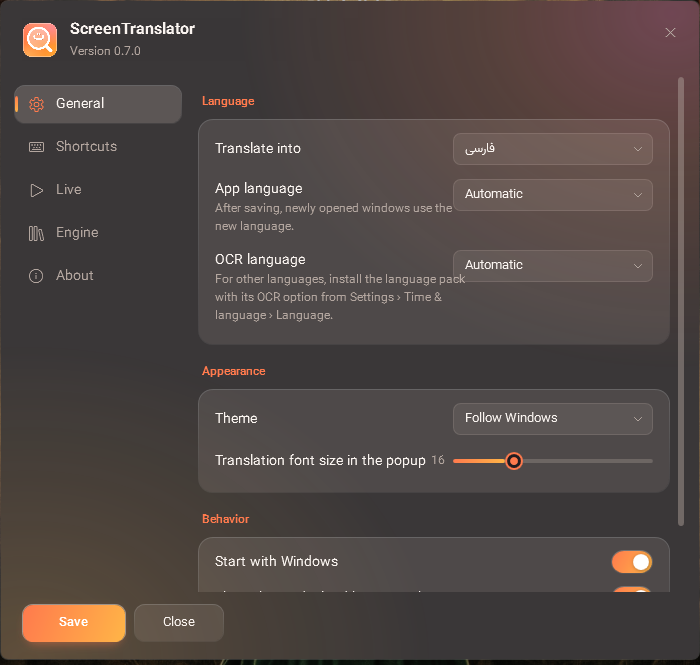
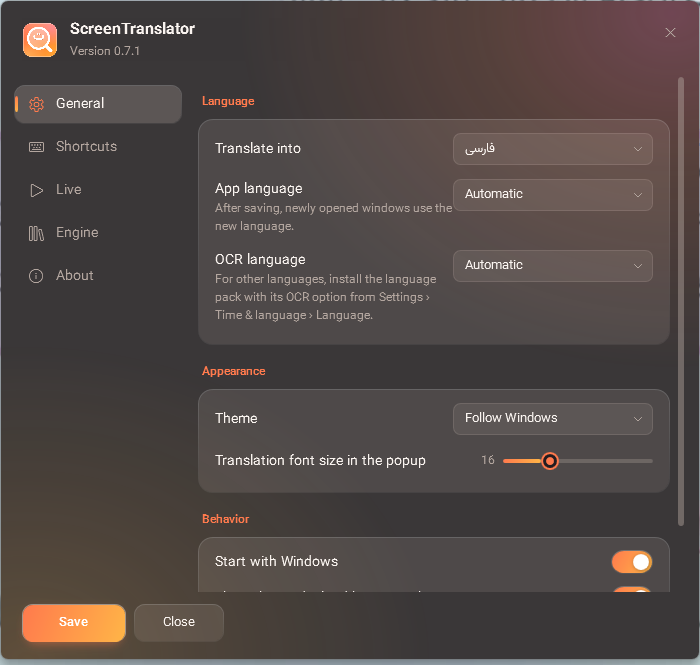
Settings: stop long labels from running under the controls next to them
In English the hints are longer than their Persian counterparts and each row
is a single-cell grid, so 'Lower = faster reaction…', the OCR and app-language
hints and the two shortcut hints slid under the slider, combo box and hotkey
box on their right. They wrap inside a fixed width now, and the sliders have a
width of their own instead of taking whatever is left.

The text boxes clipped their own text: a fixed height of 34 with 6px of
vertical padding left 20px for a line that needs about 24, so the Base URL and
model fields were cut through the middle in both languages. They grow from a
minimum height now.

--demo-settings takes 'openai' to open the OpenAI panel, which is what made
the clipping visible.

diff --git a/src/ScreenTranslator/UI/SettingsWindow.xaml b/src/ScreenTranslator/UI/SettingsWindow.xaml
@@ -83,7 +83,7 @@
                                         <Grid Style="{StaticResource Row}">
                                             <StackPanel>
                                                 <TextBlock Style="{StaticResource Label}" Text="{ui:L settings.uilang}" />
-                                                <TextBlock Style="{StaticResource MutedLabel}" TextWrapping="Wrap" MaxWidth="260" HorizontalAlignment="Left"
+                                                <TextBlock Style="{StaticResource MutedLabel}" TextWrapping="Wrap" MaxWidth="240" HorizontalAlignment="Left"
                                                            Text="{ui:L settings.uilang.hint}" />
                                             </StackPanel>
                                             <ComboBox x:Name="UiLangCombo" Width="200" HorizontalAlignment="Right" VerticalAlignment="Top">
@@ -95,7 +95,7 @@
                                         <Grid Style="{StaticResource Row}">
                                             <StackPanel>
                                                 <TextBlock Style="{StaticResource Label}" Text="{ui:L settings.ocr}" />
-                                                <TextBlock Style="{StaticResource MutedLabel}" TextWrapping="Wrap" MaxWidth="260" HorizontalAlignment="Left"
+                                                <TextBlock Style="{StaticResource MutedLabel}" TextWrapping="Wrap" MaxWidth="240" HorizontalAlignment="Left"
                                                            Text="{ui:L settings.ocr.hint}" />
                                             </StackPanel>
                                             <ComboBox x:Name="OcrCombo" Width="200" HorizontalAlignment="Right" VerticalAlignment="Top" />
@@ -118,7 +118,7 @@
                                             <TextBlock Style="{StaticResource Label}" Text="{ui:L settings.popupfont}" />
                                             <StackPanel Orientation="Horizontal" HorizontalAlignment="Right">
                                                 <TextBlock x:Name="PopupFontValue" Style="{StaticResource MutedLabel}" Width="30" TextAlignment="Center" />
-                                                <Slider x:Name="PopupFontSlider" Minimum="12" Maximum="26" TickFrequency="1" ValueChanged="OnSliderChanged" />
+                                                <Slider x:Name="PopupFontSlider" Width="150" Minimum="12" Maximum="26" TickFrequency="1" ValueChanged="OnSliderChanged" />
                                             </StackPanel>
                                         </Grid>
                                     </StackPanel>
@@ -160,14 +160,14 @@
                                         <Grid Style="{StaticResource Row}">
                                             <StackPanel>
                                                 <TextBlock Style="{StaticResource Label}" Text="{ui:L settings.hk.word}" />
-                                                <TextBlock Style="{StaticResource MutedLabel}" Text="{ui:L settings.hk.word.hint}" />
+                                                <TextBlock Style="{StaticResource MutedLabel}" Text="{ui:L settings.hk.word.hint}" TextWrapping="Wrap" MaxWidth="250" HorizontalAlignment="Left" />
                                             </StackPanel>
                                             <ui:HotkeyBox x:Name="HkWord" HorizontalAlignment="Right" VerticalAlignment="Top" />
                                         </Grid>
                                         <Grid Style="{StaticResource Row}">
                                             <StackPanel>
                                                 <TextBlock Style="{StaticResource Label}" Text="{ui:L settings.hk.copy}" />
-                                                <TextBlock Style="{StaticResource MutedLabel}" Text="{ui:L settings.hk.copy.hint}" />
+                                                <TextBlock Style="{StaticResource MutedLabel}" Text="{ui:L settings.hk.copy.hint}" TextWrapping="Wrap" MaxWidth="250" HorizontalAlignment="Left" />
                                             </StackPanel>
                                             <ui:HotkeyBox x:Name="HkCopy" HorizontalAlignment="Right" VerticalAlignment="Top" />
                                         </Grid>
@@ -209,25 +209,25 @@
                                         <Grid Style="{StaticResource Row}">
                                             <StackPanel>
                                                 <TextBlock Style="{StaticResource Label}" Text="{ui:L settings.live.interval}" />
-                                                <TextBlock Style="{StaticResource MutedLabel}" Text="{ui:L settings.live.interval.hint}" />
+                                                <TextBlock Style="{StaticResource MutedLabel}" Text="{ui:L settings.live.interval.hint}" TextWrapping="Wrap" MaxWidth="230" HorizontalAlignment="Left" />
                                             </StackPanel>
                                             <StackPanel Orientation="Horizontal" HorizontalAlignment="Right">
                                                 <TextBlock x:Name="IntervalValue" Style="{StaticResource MutedLabel}" Width="52" TextAlignment="Center" />
-                                                <Slider x:Name="IntervalSlider" Minimum="300" Maximum="2000" TickFrequency="100" ValueChanged="OnSliderChanged" />
+                                                <Slider x:Name="IntervalSlider" Width="150" Minimum="300" Maximum="2000" TickFrequency="100" ValueChanged="OnSliderChanged" />
                                             </StackPanel>
                                         </Grid>
                                         <Grid Style="{StaticResource Row}">
                                             <TextBlock Style="{StaticResource Label}" Text="{ui:L settings.live.opacity}" />
                                             <StackPanel Orientation="Horizontal" HorizontalAlignment="Right">
                                                 <TextBlock x:Name="OpacityValue" Style="{StaticResource MutedLabel}" Width="40" TextAlignment="Center" />
-                                                <Slider x:Name="OpacitySlider" Minimum="50" Maximum="100" TickFrequency="2" ValueChanged="OnSliderChanged" />
+                                                <Slider x:Name="OpacitySlider" Width="150" Minimum="50" Maximum="100" TickFrequency="2" ValueChanged="OnSliderChanged" />
                                             </StackPanel>
                                         </Grid>
                                         <Grid Style="{StaticResource Row}">
                                             <TextBlock Style="{StaticResource Label}" Text="{ui:L settings.live.fontscale}" />
                                             <StackPanel Orientation="Horizontal" HorizontalAlignment="Right">
                                                 <TextBlock x:Name="FontScaleValue" Style="{StaticResource MutedLabel}" Width="40" TextAlignment="Center" />
-                                                <Slider x:Name="FontScaleSlider" Minimum="70" Maximum="140" TickFrequency="5" ValueChanged="OnSliderChanged" />
+                                                <Slider x:Name="FontScaleSlider" Width="150" Minimum="70" Maximum="140" TickFrequency="5" ValueChanged="OnSliderChanged" />
                                             </StackPanel>
                                         </Grid>
                                     </StackPanel>

diff --git a/src/ScreenTranslator/UI/Controls.xaml b/src/ScreenTranslator/UI/Controls.xaml
@@ -179,8 +179,8 @@
         <Setter Property="Background" Value="{DynamicResource InputBg}" />
         <Setter Property="BorderBrush" Value="{DynamicResource Border}" />
         <Setter Property="BorderThickness" Value="1" />
-        <Setter Property="Padding" Value="10,6" />
-        <Setter Property="Height" Value="34" />
+        <Setter Property="Padding" Value="10,5" />
+        <Setter Property="MinHeight" Value="34" />
         <Setter Property="VerticalContentAlignment" Value="Center" />
         <Setter Property="SelectionBrush" Value="{DynamicResource Accent}" />
         <Setter Property="Template">
@@ -207,8 +207,8 @@
         <Setter Property="Background" Value="{DynamicResource InputBg}" />
         <Setter Property="BorderBrush" Value="{DynamicResource Border}" />
         <Setter Property="BorderThickness" Value="1" />
-        <Setter Property="Padding" Value="10,6" />
-        <Setter Property="Height" Value="34" />
+        <Setter Property="Padding" Value="10,5" />
+        <Setter Property="MinHeight" Value="34" />
         <Setter Property="PasswordChar" Value="•" />
         <Setter Property="Template">
             <Setter.Value>

diff --git a/src/ScreenTranslator/UI/SettingsWindow.xaml.cs b/src/ScreenTranslator/UI/SettingsWindow.xaml.cs
@@ -119,6 +119,7 @@ public partial class SettingsWindow : Window
             case "hotkeys": TabHotkeys.IsChecked = true; break;
             case "live": TabLive.IsChecked = true; break;
             case "engine": TabEngine.IsChecked = true; EngineClaude.IsChecked = true; break;
+            case "openai": TabEngine.IsChecked = true; EngineOpenAi.IsChecked = true; break;
             case "about": TabAbout.IsChecked = true; break;
         }
     }
